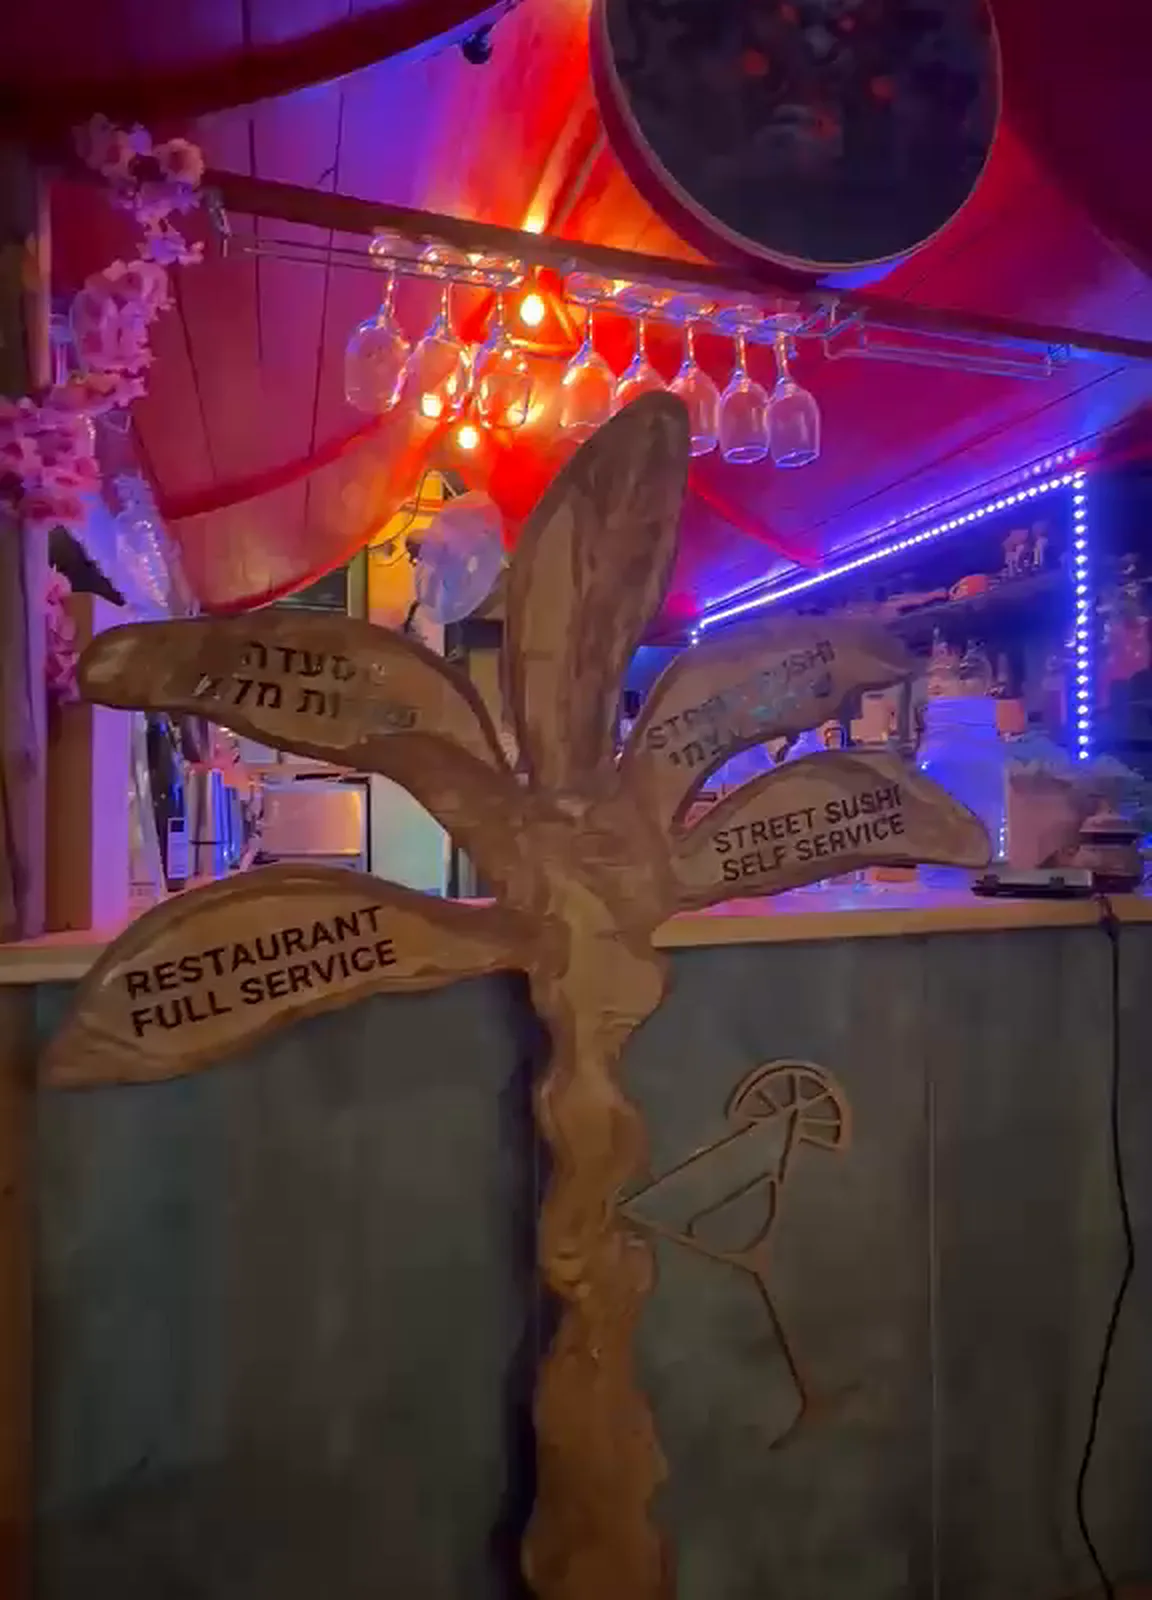
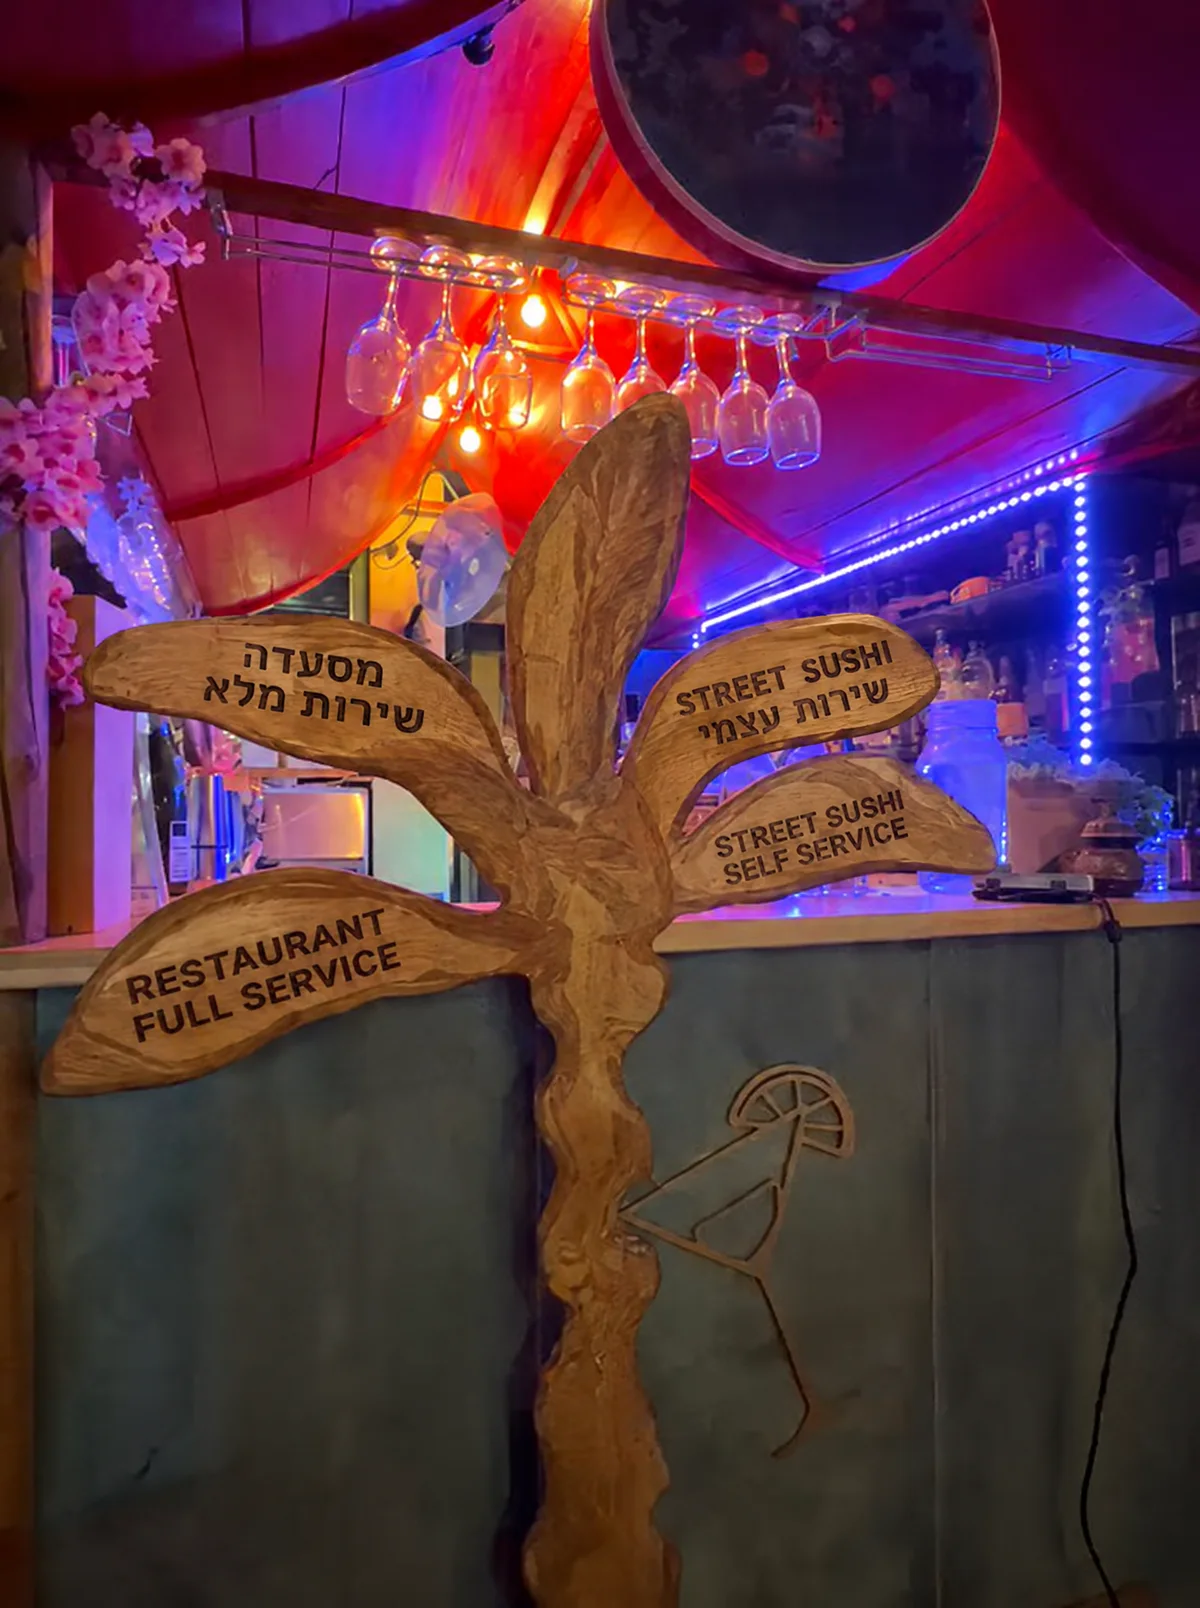
Yoko Ono kit: relit palm sign with light sweep and press animation
Claude-Session: https://claude.ai/code/session_018xzzWwj4by8oW5XBVQnU6v

diff --git a/yoko-ono-kit/palm-sign/demo.html b/yoko-ono-kit/palm-sign/demo.html
@@ -3,46 +3,94 @@
 <head>
 <meta charset="utf-8">
 <meta name="viewport" content="width=device-width,initial-scale=1">
-<title>Yoko Ono palm sign demo</title>
+<title>Yoko Ono palm sign demo v2</title>
 <style>
   :root{--red:#d1262f;--ink:#f3ece2;--bg:#0c0a09}
   html,body{margin:0;background:var(--bg);color:var(--ink);font-family:system-ui,sans-serif}
   .choose{padding:72px 16px;display:grid;justify-items:center;gap:20px}
   .choose h2{margin:0;font-size:clamp(34px,8vw,64px);line-height:1;text-align:center}
   .choose p{margin:0;opacity:.75;text-align:center}
-  .sign{position:relative;width:min(92vw,460px);aspect-ratio:576/800;border-radius:20px;overflow:hidden}
+  .scene{perspective:1100px;width:min(92vw,460px)}
+  .sign{position:relative;aspect-ratio:1744/2336;border-radius:20px;overflow:hidden;
+        transform-style:preserve-3d;transition:transform .35s cubic-bezier(.2,.7,.2,1)}
   .sign img{width:100%;height:100%;object-fit:cover;display:block}
-  .leaf{position:absolute;display:block;border-radius:40% 50% 45% 50%;outline:none;
-        background:radial-gradient(closest-side,rgba(209,38,47,0),rgba(209,38,47,0));
-        transition:background .25s ease, box-shadow .25s ease}
-  .leaf:hover,.leaf:focus-visible,.leaf:active{background:radial-gradient(closest-side,rgba(209,38,47,.38),rgba(209,38,47,0));box-shadow:0 0 0 2px rgba(209,38,47,.7)}
-  .sign.hint .leaf{animation:pulse 1.4s ease 2}
-  @keyframes pulse{50%{background:radial-gradient(closest-side,rgba(209,38,47,.32),rgba(209,38,47,0))}}
-  .restaurant{left:2.6%;top:37.5%;width:44.3%;height:30.6%}
-  .street{left:53%;top:38.1%;width:33.9%;height:19.4%}
+
+  /* 1. Light sweep over the engraved leaves, once when the sign enters the screen */
+  .sweep{position:absolute;inset:0;pointer-events:none;mix-blend-mode:screen;opacity:0;
+    background:linear-gradient(105deg,transparent 40%,rgba(255,214,150,.75) 50%,transparent 60%) no-repeat;
+    background-size:300% 100%;background-position:120% 0;
+    -webkit-mask-image:
+      radial-gradient(ellipse 19% 6% at 24.8% 44%,#000 70%,transparent 100%),
+      radial-gradient(ellipse 22% 7.5% at 23.4% 61%,#000 70%,transparent 100%),
+      radial-gradient(ellipse 14.5% 6.5% at 65.3% 44%,#000 70%,transparent 100%),
+      radial-gradient(ellipse 14.5% 5.5% at 69.7% 52%,#000 70%,transparent 100%);
+            mask-image:
+      radial-gradient(ellipse 19% 6% at 24.8% 44%,#000 70%,transparent 100%),
+      radial-gradient(ellipse 22% 7.5% at 23.4% 61%,#000 70%,transparent 100%),
+      radial-gradient(ellipse 14.5% 6.5% at 65.3% 44%,#000 70%,transparent 100%),
+      radial-gradient(ellipse 14.5% 5.5% at 69.7% 52%,#000 70%,transparent 100%)}
+  .sign.lit .sweep{animation:sweep 2.2s ease-in-out .2s 1 both}
+  @keyframes sweep{0%{opacity:1;background-position:120% 0}85%{opacity:1}100%{opacity:0;background-position:-20% 0}}
+
+  /* Leaf glows, one per leaf, grouped by destination */
+  .glow{position:absolute;pointer-events:none;border-radius:50%;opacity:0;
+        background:radial-gradient(closest-side,rgba(230,40,50,.62),rgba(209,38,47,.18) 70%,rgba(209,38,47,0));
+        mix-blend-mode:hard-light;filter:blur(2px);transition:opacity .25s ease}
+  .g1{left:5.8%;top:38%;width:38%;height:12%}
+  .g2{left:2.4%;top:53.5%;width:42%;height:15%}
+  .g3{left:51%;top:37.5%;width:28.6%;height:13%}
+  .g4{left:55.4%;top:46.5%;width:28.6%;height:11%}
+
+  /* Hotspot links */
+  .leaf{position:absolute;display:block;outline:none;-webkit-tap-highlight-color:transparent;border-radius:28px}
+  .restaurant{left:3%;top:38%;width:42%;height:30%}
+  .street{left:52%;top:37.5%;width:31%;height:19%}
+  .leaf:focus-visible{box-shadow:0 0 0 3px var(--ink)}
+
+  /* 2. Touch response: the sign leans toward the pressed side and the leaves light red */
+  .sign:has(.restaurant:hover,.restaurant:focus-visible) .g-rest,
+  .sign:has(.street:hover,.street:focus-visible) .g-street,
+  .sign.press-rest .g-rest,.sign.press-street .g-street{opacity:1}
+  .sign.press-rest{transform:rotateY(-7deg) scale(.985)}
+  .sign.press-street{transform:rotateY(7deg) scale(.985)}
+
   .legend{display:flex;gap:12px;flex-wrap:wrap;justify-content:center}
   .legend a{color:var(--ink);text-decoration:none;border:1px solid rgba(243,236,226,.4);border-radius:999px;padding:10px 18px;min-height:44px;box-sizing:border-box;display:inline-flex;align-items:center}
   .legend a.primary{background:var(--red);border-color:var(--red)}
-  @media (prefers-reduced-motion:reduce){.sign.hint .leaf{animation:none}}
+  @media (prefers-reduced-motion:reduce){.sign.lit .sweep{animation:none}.sign{transition:none}.sign.press-rest,.sign.press-street{transform:none}}
 </style>
 </head>
 <body>
 <section class="choose" aria-labelledby="choose-title">
   <h2 id="choose-title">בחרו את הדרך שלכם.</h2>
   <p>לחצו על השלט.</p>
-  <div class="sign" id="sign">
-    <img src="palm-sign.webp" width="1152" height="1600" alt="שלט עץ בצורת דקל ליד הבר: מסעדה, שירות מלא. סטריט סושי, שירות עצמי.">
-    <a class="leaf restaurant" href="https://ontopo.com/he/il/page/14510630" target="_blank" rel="noopener" aria-label="מסעדה, שירות מלא: הזמינו שולחן"></a>
-    <a class="leaf street" href="https://wolt.com/he/isr/hasharon/restaurant/yoko-ono" target="_blank" rel="noopener" aria-label="סטריט סושי, שירות עצמי: הזמינו בוולט"></a>
+  <div class="scene">
+    <div class="sign" id="sign">
+      <img src="palm-sign.webp" width="1200" height="1608" alt="שלט עץ בצורת דקל ליד הבר: מסעדה, שירות מלא. סטריט סושי, שירות עצמי.">
+      <span class="sweep" aria-hidden="true"></span>
+      <span class="glow g1 g-rest" aria-hidden="true"></span>
+      <span class="glow g2 g-rest" aria-hidden="true"></span>
+      <span class="glow g3 g-street" aria-hidden="true"></span>
+      <span class="glow g4 g-street" aria-hidden="true"></span>
+      <a class="leaf restaurant" data-press="press-rest" href="https://ontopo.com/he/il/page/14510630" aria-label="מסעדה, שירות מלא: הזמינו שולחן"></a>
+      <a class="leaf street" data-press="press-street" href="https://wolt.com/he/isr/hasharon/restaurant/yoko-ono" aria-label="סטריט סושי, שירות עצמי: הזמינו בוולט"></a>
+    </div>
   </div>
   <div class="legend">
-    <a class="primary" href="https://ontopo.com/he/il/page/14510630" target="_blank" rel="noopener">מסעדה · הזמינו שולחן</a>
-    <a href="https://wolt.com/he/isr/hasharon/restaurant/yoko-ono" target="_blank" rel="noopener">סטריט סושי · וולט</a>
+    <a class="primary" href="https://ontopo.com/he/il/page/14510630">מסעדה · הזמינו שולחן</a>
+    <a href="https://wolt.com/he/isr/hasharon/restaurant/yoko-ono">סטריט סושי · וולט</a>
   </div>
 </section>
 <script>
-const s=document.getElementById('sign');
-new IntersectionObserver((e,o)=>{if(e[0].isIntersecting){s.classList.add('hint');o.disconnect();}},{threshold:.6}).observe(s);
+const sign=document.getElementById('sign');
+const reduce=matchMedia('(prefers-reduced-motion: reduce)').matches;
+new IntersectionObserver((e,o)=>{if(e[0].isIntersecting){sign.classList.add('lit');o.disconnect();}},{threshold:.6}).observe(sign);
+sign.querySelectorAll('.leaf').forEach(a=>a.addEventListener('click',ev=>{
+  if(reduce||ev.metaKey||ev.ctrlKey||ev.shiftKey)return;
+  ev.preventDefault(); sign.classList.add(a.dataset.press);
+  setTimeout(()=>{location.href=a.href;},420);
+}));
+addEventListener('pageshow',()=>sign.classList.remove('press-rest','press-street'));
 </script>
 </body>
 </html>

diff --git a/yoko-ono-kit/palm-sign/README.md b/yoko-ono-kit/palm-sign/README.md
@@ -1,15 +1,18 @@
 # The palm sign: a clickable "choose your way" section (the site's signature element)
 
-`palm-sign.webp`: the real carved wooden palm sign by the bar (1152×1600, from the owner's own footage).
-Its leaves read "מסעדה / שירות מלא · RESTAURANT FULL SERVICE" (left) and "סטריט סושי / שירות עצמי · STREET SUSHI SELF SERVICE" (right).
+`palm-sign.webp`: the real carved wooden palm sign by the bar (1200×1608, aspect 1744/2336), from the owner's footage.
+GPT Image 2.5 relit only the two upper leaves so their lettering reads. The owner approved the image, and every letter was checked against the real sign:
+- upper left "מסעדה / שירות מלא", lower left "RESTAURANT FULL SERVICE"
+- upper right "STREET SUSHI / שירות עצמי", lower right "STREET SUSHI SELF SERVICE"
 
 The sign itself is the navigation:
-- Left leaves (restaurant, full service) → Ontopo booking: https://ontopo.com/he/il/page/14510630
+- Left leaves (restaurant, full service) → Ontopo: https://ontopo.com/he/il/page/14510630
 - Right leaves (street sushi, self service) → Wolt: https://wolt.com/he/isr/hasharon/restaurant/yoko-ono
 
-Hotspots, in percent of the image box (aspect-ratio 576/800):
-- restaurant: left 2.6%, top 37.5%, width 44.3%, height 30.6%
-- street: left 53%, top 38.1%, width 33.9%, height 19.4%
-
-`demo.html` is a tested reference: real <a> links over each leaf, a red glow on hover, focus and tap, a two-time pulse the first time the sign scrolls into view (off under reduced motion), accessible labels, plus two plain pill buttons under the sign as a fallback. In the site these must follow the site's tokens (fonts, red, spacing).
-Place it right after the hero, replacing the current "מסעדה / סטריט סושי" two-column block.
+`demo.html` is the tested reference (iPhone 13). Copy its behavior exactly, styled with the site's tokens:
+1. Light sweep: the first time the sign is 60% on screen, a warm band of light (screen blend, masked to the four leaves) moves across the engraving once, 2.2 s.
+2. Touch response: tap a leaf → that side's leaves glow red and the whole sign leans toward it (rotateY ±7°), then the link opens after 420 ms in the same tab. Hover and keyboard focus show the glow too.
+3. Reduced motion: no sweep, no lean, the link opens immediately.
+4. Two plain pill buttons under the sign as a fallback. Real <a> links with Hebrew aria-labels.
+Hotspots and glow positions are in demo.html (percent of the sign box). Don't change them.
+Place it right after the hero, replacing the current "מסעדה / סטריט סושי" block. Headline "בחרו את הדרך שלכם.", line "לחצו על השלט."
